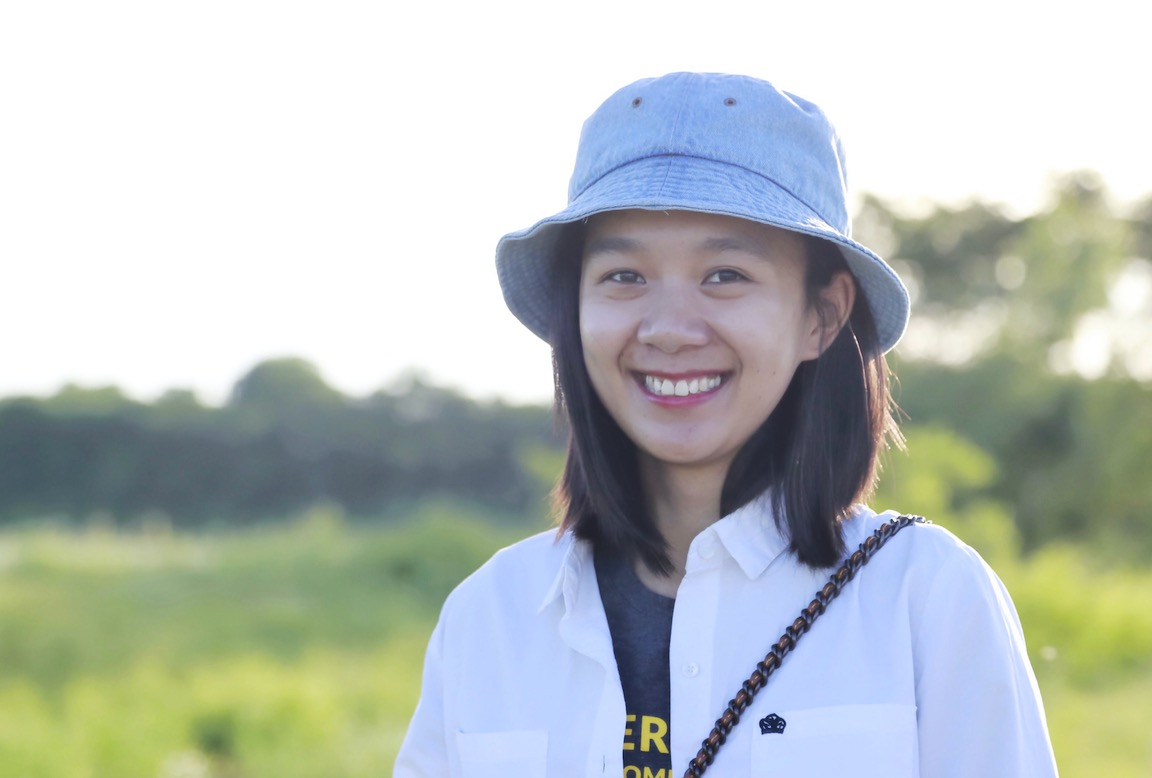
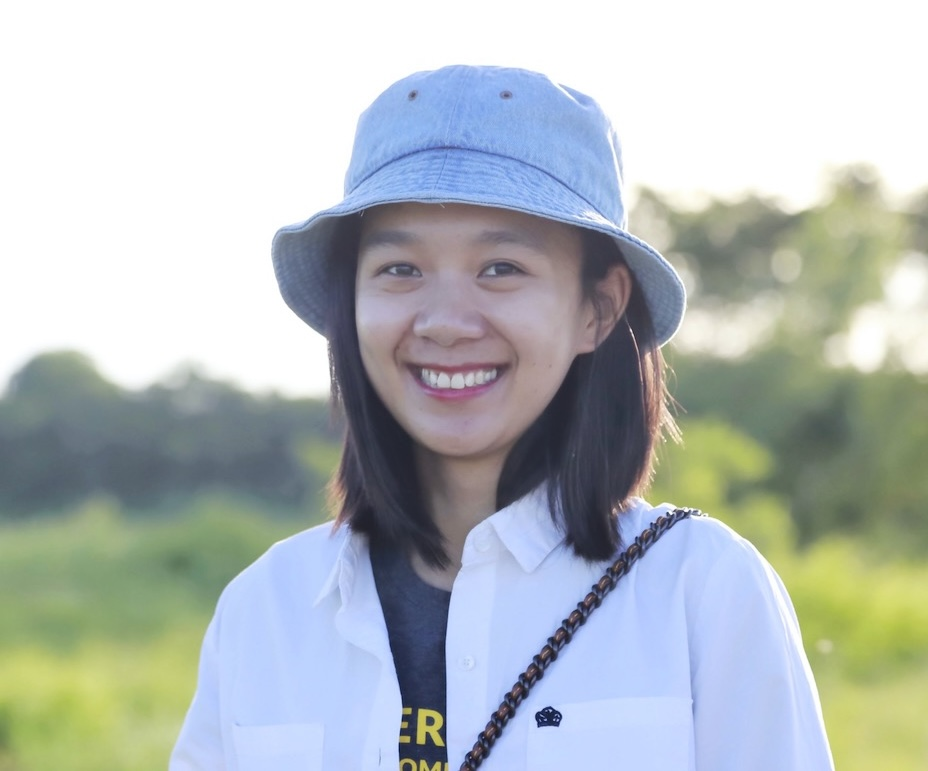
Update index and profile image

diff --git a/index.html b/index.html
@@ -58,7 +58,7 @@
             margin-bottom: 20px;
         }
         .news-item {
-            margin-bottom: 6px;
+            margin-bottom: 3px;
         }
         .publication {
             margin-bottom: 20px;
@@ -162,7 +162,8 @@
 <div class="section">
     <h2>News</h2>
     <ul>
-        <li class="news-item"><strong>[Apr-2025]</strong> Llama4 Released, try our new model with context length up to 10M! <a href="https://ai.meta.com/blog/llama-4-multimodal-intelligence/">Link</a> Try our product! <a href="https://www.meta.ai/">Meta ai</a>.</li>
+        <li class="news-item"><strong>[Apr-2026]</strong> Try our new product <a href="https://www.meta.ai/">Meta AI</a> with Muse Spark model! </li>
+        <li class="news-item"><strong>[Apr-2025]</strong> Llama4 Released, try our new model with context length up to 10M! <a href="https://ai.meta.com/blog/llama-4-multimodal-intelligence/">Link</a> Try our product! <a href="https://www.meta.ai/">Meta AI</a></li>
         <li class="news-item"><strong>[Nov-2022]</strong> Try our new package <a href="https://github.com/qiqi-helloworld/ABSGD/">ABSGD</a> for handling imbalanced classification! <a href="https://github.com/qiqi-helloworld/ABSGD/blob/main/ABSGD_tutorial.ipynb">Tutorial</a></li>
         <li class="news-item"><strong>[Oct-2022]</strong> Our ABSGD achieved <strong>1st in ResNet50</strong> (rank 4th of 16 overall) on <a href="https://wilds.stanford.edu/leaderboard/">Stanford WILDS iWildCam</a>! <a href="https://github.com/qiqi-helloworld/ABSGD/tree/main/wilds-competition">Code</a></li>
         <li class="news-item"><strong>[Aug-2022]</strong> Research intern at Netflix with <a href="https://sites.google.com/view/shervinardeshir">Shervin Ardeshir</a> and <a href="https://www.linkedin.com/in/mhtaghavi/">M. Hossein Taghavi</a></li>
